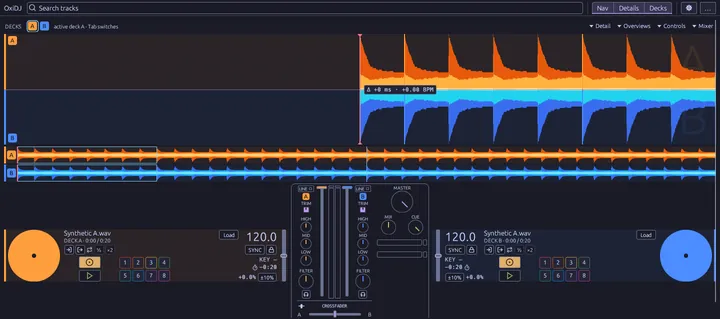
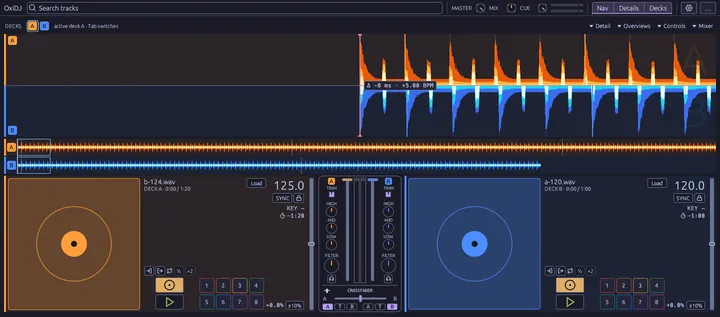
feat(site): refresh deck screenshots and gallery audit
Gate: cargo xtask ci exit 0 (layers=ok fmt=ok clippy=ok check=ok); site typecheck, lint, format, 79 tests and build exit 0; browser audit 9 route/width checks exit 0.

diff --git a/site/src/data/roadmap.ts b/site/src/data/roadmap.ts
@@ -289,7 +289,7 @@ export const screenshots = {
   deckMixerV2: {
     id: 'deck-mixer-v2',
     width: 1440,
-    height: 273,
+    height: 285,
     halfWidth: 720,
     alt: 'Current deck row with two synthetic tracks, hot-cue pads and the compact mixer in the centre.',
     caption: 'Decks and compact mixer in layout B. Synthetic tracks; provisional application.',
@@ -297,7 +297,7 @@ export const screenshots = {
   layoutB: {
     id: 'layout-b',
     width: 1440,
-    height: 638,
+    height: 635,
     halfWidth: 720,
     alt: 'Arrangement B: waveform above two decks with a mixer between them.',
     caption: 'B, default: waveforms above the decks and central mixer.',
@@ -305,7 +305,7 @@ export const screenshots = {
   layoutA: {
     id: 'layout-a',
     width: 1440,
-    height: 638,
+    height: 628,
     halfWidth: 720,
     alt: 'Arrangement A: decks and central mixer above the waveform.',
     caption: 'A: decks and mixer above the waveforms.',
@@ -313,7 +313,7 @@ export const screenshots = {
   layoutC: {
     id: 'layout-c',
     width: 1440,
-    height: 638,
+    height: 628,
     halfWidth: 720,
     alt: 'Arrangement C: waveform on top, decks below with the mixer on the right.',
     caption: 'C: waveforms above; mixer docked right.',
@@ -321,7 +321,7 @@ export const screenshots = {
   layoutD: {
     id: 'layout-d',
     width: 1440,
-    height: 475,
+    height: 473,
     halfWidth: 720,
     alt: 'Arrangement D: mixer beside waveforms with decks below.',
     caption: 'D: mixer beside the waveforms; decks below.',
@@ -329,7 +329,7 @@ export const screenshots = {
   overview: {
     id: 'app-overview',
     width: 1440,
-    height: 638,
+    height: 635,
     halfWidth: 720,
     alt: 'OxiDJ deck layout B with an orange and blue merged waveform, separate overviews, two synthetic tracks on the decks, and a compact mixer between them.',
     caption: 'Deck layout B in the provisional application, with synthetic tracks. Click to zoom.',

diff --git a/site/src/__tests__/siteMarkup.test.ts b/site/src/__tests__/siteMarkup.test.ts
@@ -43,11 +43,11 @@ describe('screenshots', () => {
   it('renders a sized, described figure whose link opens the full-resolution image', () => {
     const html = renderShot(screenshots.overview, '92vw', true);
     expect(html).toContain('href="./images/app-overview.webp" data-lightbox');
-    expect(html).toContain('data-width="1440" data-height="638"');
+    expect(html).toContain('data-width="1440" data-height="635"');
     expect(html).toContain(
       'srcset="./images/app-overview-720.webp 720w, ./images/app-overview.webp 1440w"',
     );
-    expect(html).toContain('width="1440" height="638"');
+    expect(html).toContain('width="1440" height="635"');
     expect(html).toContain('fetchpriority="high"');
     expect(html).not.toContain('loading="lazy"');
     expect(html).toContain(`alt="${screenshots.overview.alt}"`);
@@ -57,6 +57,21 @@ describe('screenshots', () => {
     const html = renderShot(screenshots.waveformGrid, '359px');
     expect(html).toContain('loading="lazy"');
     expect(html).not.toContain('srcset');
+  });
+  it('renders each refreshed arrangement with its correct lightbox and responsive dimensions', () => {
+    for (const [shot, height] of [
+      [screenshots.layoutA, 628],
+      [screenshots.layoutB, 635],
+      [screenshots.layoutC, 628],
+      [screenshots.layoutD, 473],
+    ] as const) {
+      const html = renderShot(shot, '92vw');
+      expect(html).toContain(`href="./images/${shot.id}.webp" data-lightbox`);
+      expect(html).toContain(`data-width="1440" data-height="${height}"`);
+      expect(html).toContain(`width="1440" height="${height}"`);
+      expect(html).toContain(`./images/${shot.id}-720.webp 720w`);
+      expect(html).toContain(`alt="${shot.alt}"`);
+    }
   });
   it('pins the imported-playlist capture dimensions, accessible description and lightbox path', () => {
     const html = renderShot(screenshots.importedPlaylists, '240px');

diff --git a/site/index.html b/site/index.html
@@ -176,8 +176,7 @@
         <details class="layout-showcase">
           <summary>Explore the four deck arrangements</summary>
           <p>
-            Selectable in Settings. These are synthetic captures of the provisional application;
-            some overview strips extend below the visible area.
+            Selectable in Settings. These are synthetic captures of the provisional application.
           </p>
           <div class="layout-grid">
             <!-- site:layoutB -->

diff --git a/site/scripts/crop-screenshots.py b/site/scripts/crop-screenshots.py
@@ -35,7 +35,6 @@ BEFORE = BANDS / "01-before-v16-monochrome.png"
 PLAYING = BANDS / "03-after-both-playing-played-dimmed.png"
 SYNCED = BANDS / "04-after-sync-keylock-both-playing.png"
 PLAYLISTS = MILESTONES / "v18-imported-playlists/01-imported-playlist-load-controls.png"
-LAYOUT_V2 = MILESTONES / "v19-deck-layout-v2/app-overviews-shared-scale.png"
 LAYOUTS = MILESTONES / "v19-deck-layout-v2"
 
 # Waveform section of the details panel: below the details/waveform hairline
@@ -49,14 +48,15 @@ BANDS_AREA = (0, 130, 1440, 552)
 
 # name: (source, (left, top, right, bottom)) in source pixels.
 CROPS = {
-    # Layout B, stopping before the details panel and its local scratch path.
-    "app-overview": (LAYOUT_V2, (0, 65, 1440, 703)),
-    "deck-mixer-v2": (LAYOUT_V2, (0, 430, 1440, 703)),
+    # Latest layout B, stopping before the table and Details panel.
+    "app-overview": (LAYOUTS / "app-deck-row-fit-1440x790.png", (0, 0, 1440, 635)),
+    "deck-mixer-v2": (LAYOUTS / "app-deck-row-fit-1440x790.png", (0, 350, 1440, 635)),
     # Synthetic v19 application screenshots, cropped above the Details path.
-    "layout-a": (LAYOUTS / "app-layout-a.png", (0, 65, 1440, 703)),
-    "layout-b": (LAYOUTS / "app-layout-b.png", (0, 65, 1440, 703)),
-    "layout-c": (LAYOUTS / "app-layout-c.png", (0, 65, 1440, 703)),
-    "layout-d": (LAYOUTS / "app-layout-d.png", (0, 65, 1440, 540)),
+    "layout-a": (LAYOUTS / "pages-layout-a-synthetic.png", (0, 0, 1440, 628)),
+    # Newer 1440x790 synthetic capture: complete deck row, no table or Details.
+    "layout-b": (LAYOUTS / "app-deck-row-fit-1440x790.png", (0, 0, 1440, 635)),
+    "layout-c": (LAYOUTS / "pages-layout-c-synthetic.png", (0, 0, 1440, 628)),
+    "layout-d": (LAYOUTS / "pages-layout-d-synthetic.png", (0, 0, 1440, 473)),
     # DECKS row and the merged 3-band detail waveform, both decks playing.
     "decks-merged": (PLAYING, (0, 100, 1440, 356)),
     # Seam readout, both tempo faders and KEY/SYNC lit on deck B.

diff --git a/site/scripts/verify-browser.py b/site/scripts/verify-browser.py
@@ -267,6 +267,11 @@ def main():
                     page.evaluate("document.fonts.ready")
                     tag = f"{name}-{width}"
                     if motion == "reduce":
+                        # The screenshot galleries live in closed disclosures: open them
+                        # through their summaries before checking images and lightboxes.
+                        if name == "index":
+                            for summary_control in page.locator("details.layout-showcase > summary").all():
+                                summary_control.click()
                         # Load lazy images and let scroll reveals settle before measuring.
                         page.evaluate("async () => { for (let y = 0; y < document.body.scrollHeight; y += 600) { window.scrollTo(0, y); await new Promise(r => setTimeout(r, 60)); } window.scrollTo(0, 0); }")
                         page.wait_for_load_state("networkidle")

diff --git a/site/public/images/README.md b/site/public/images/README.md
@@ -2,25 +2,31 @@
 
 ## Provisional v19 layout showcase
 
-`deck-mixer-v2.webp` is cropped from `app-overviews-shared-scale.png` at
-`(0, 430, 1440, 703)`; the matching `-720` file is its half-width copy. It
-shows the deck row and mixer from a synthetic catalog, above the Details panel.
+`deck-mixer-v2.webp` is cropped from `app-deck-row-fit-1440x790.png` at
+`(0, 350, 1440, 635)`; the matching `-720` file is its half-width copy. It
+shows the complete deck row and mixer from a synthetic catalog, above the Details panel.
 
-`layout-{a,b,c,d}.webp` are regenerated from the corresponding synthetic
-`docs/milestones/v19-deck-layout-v2/app-layout-{a,b,c,d}.png` captures. Crops
-A, B and C use `(0, 65, 1440, 703)`; D uses `(0, 65, 1440, 540)`. Their
+`layout-{a,c,d}.webp` are regenerated from the corresponding already-cropped
+`docs/milestones/v19-deck-layout-v2/pages-layout-{a,c,d}-synthetic.png` captures.
+The fresh Bot Screen captures used release build `fd4f99d` and a synthetic test
+catalog. A and C were cropped to `(0, 72, 1440, 700)` on the full screen; D to
+`(0, 72, 1440, 545)`, excluding the table and Details panel before saving.
+`layout-b.webp` uses the newer synthetic `app-deck-row-fit-1440x790.png`
+at `(0, 0, 1440, 635)`, retaining the complete deck row while excluding the
+table and Details panel. Their
 `-720.webp` variants are half-width responsive copies. The source Details panel
 contains local paths and IDs: it is excluded from these inspected crops. The
-source view clips the lower edge of some overviews; the showcase says so.
-These provisional assets await a fresh capture and final privacy review.
+resulting showcase crops show the deck controls and overviews. The application
+is provisional; a final privacy review remains open.
 
-All screenshots are crops of inspected Bot Screen captures (X11, 1440x900,
-provisional `prototypes/oxidj-library-ui`, Tokyo Night). Product-state examples use
-synthetic audio and catalog data except for the single owner-library row documented
-below, which is metadata-only and was not loaded or played. The v18 playlist screen
-uses only synthetic repository test data. No paths, IDs, hashes, or other owner-library
-records are visible in the published crop. Pixels were inspected before publication
-(2026-11-07).
+Screenshots are crops of inspected X11 Bot Screen captures of the provisional
+`prototypes/oxidj-library-ui` in Tokyo Night. The newer A, C and D site crops
+were taken from a 1440x900 desktop on 2026-11-11; the newer B source is 1440x790.
+The historical crops below were inspected on 2026-11-07. Product-state examples
+use synthetic audio and catalog data except for the single owner-library row
+documented below, which is metadata-only and was not loaded or played. The v18
+playlist screen uses only synthetic repository test data. No paths, IDs, hashes,
+or other owner-library records are visible in the published owner-record crop.
 
 | Source capture (under `docs/milestones/`)                       | Build                              | Catalog                                                                                                                   |
 | --------------------------------------------------------------- | ---------------------------------- | ------------------------------------------------------------------------------------------------------------------------- |
@@ -46,22 +52,22 @@ and a privacy inspection, not the synthetic crop script. Full-width synthetic
 crops also get a `-720` half-width lossy q80 copy for 1x screens (`srcset`);
 every full-size file is lossless.
 
-| File                                   | Source and crop (x0, y0, x1, y1)                        | Notes                                                                                    |
-| -------------------------------------- | ------------------------------------------------------- | ---------------------------------------------------------------------------------------- |
-| `app-overview.webp`                    | v19 `app-overviews-shared-scale.png` (0, 65, 1440, 703) | Hero: reviewed layout B with synthetic audio; excludes the details panel and local path. |
-| `decks-merged.webp`                    | v17 `03-after-both...` (0, 100, 1440, 356)              | Merged 3-band detail waveform, both decks playing.                                       |
-| `bands-before.webp`                    | v17 `01-before...` (0, 130, 1440, 552)                  | v16 deck area: near-monochrome detail, flat overviews.                                   |
-| `bands-after.webp`                     | v17 `03-after-both...` (0, 130, 1440, 552)              | Same area after W12: three bands in detail and overviews.                                |
-| `decks-synced.webp`                    | v17 `04-after-sync...` (440, 128, 1000, 384)            | Seam readout 0 ms / +0.00 BPM, KEY and SYNC lit on B.                                    |
-| `sync-refused.webp`                    | v15 `04-sync-refused...` (720, 356, 1440, 412)          | Deck B strip: `SYNC: deck B has no beat grid`.                                           |
-| `decks-mixer.webp`                     | v17 `04-after-sync...` (0, 356, 1440, 476)              | Control strip and the mixer row with live meters.                                        |
-| `grid-fallback.webp`                   | v14 `04-grid-fallback...` (0, 100, 1440, 492)           | mm:ss time grid without a beat grid or waveform (pre-W12 colours).                       |
-| `decks-collapsed.webp`                 | v14 `05-collapsed...` (0, 100, 1440, 400)               | Detail collapsed; strip, overviews, table rows (pre-W12 colours).                        |
-| `waveform-beat-grid.webp`              | v13 `01-ventoy-style...` (1081, 362, 1440, 800)         | Details waveform panel, computed grid 127.95 BPM.                                        |
-| `waveform-click-grid.webp`             | v13 `02-click-track...` (1081, 362, 1440, 800)          | Details waveform panel, computed grid 120.00 BPM.                                        |
-| `imported-playlist-load-controls.webp` | v18 imported-playlist panel (0, 0, 175, 252)            | Selected nested member and explicit Load A/B; native crop, no half-size copy.            |
-| `senci-owner-library-record.webp`      | Owner-library Bot Screen row crop (248, 30, 1086, 104)  | One imported-library row only; metadata, not loaded or played; no ID/path/other records. |
-| `social.png`                           | composed from `app-overview`                            | 1200x630 Open Graph card set in Epilogue.                                                |
+| File                                   | Source and crop (x0, y0, x1, y1)                       | Notes                                                                                    |
+| -------------------------------------- | ------------------------------------------------------ | ---------------------------------------------------------------------------------------- |
+| `app-overview.webp`                    | v19 `app-deck-row-fit-1440x790.png` (0, 0, 1440, 635)  | Hero: synthetic layout B; excludes the table and Details panel.                          |
+| `decks-merged.webp`                    | v17 `03-after-both...` (0, 100, 1440, 356)             | Merged 3-band detail waveform, both decks playing.                                       |
+| `bands-before.webp`                    | v17 `01-before...` (0, 130, 1440, 552)                 | v16 deck area: near-monochrome detail, flat overviews.                                   |
+| `bands-after.webp`                     | v17 `03-after-both...` (0, 130, 1440, 552)             | Same area after W12: three bands in detail and overviews.                                |
+| `decks-synced.webp`                    | v17 `04-after-sync...` (440, 128, 1000, 384)           | Seam readout 0 ms / +0.00 BPM, KEY and SYNC lit on B.                                    |
+| `sync-refused.webp`                    | v15 `04-sync-refused...` (720, 356, 1440, 412)         | Deck B strip: `SYNC: deck B has no beat grid`.                                           |
+| `decks-mixer.webp`                     | v17 `04-after-sync...` (0, 356, 1440, 476)             | Control strip and the mixer row with live meters.                                        |
+| `grid-fallback.webp`                   | v14 `04-grid-fallback...` (0, 100, 1440, 492)          | mm:ss time grid without a beat grid or waveform (pre-W12 colours).                       |
+| `decks-collapsed.webp`                 | v14 `05-collapsed...` (0, 100, 1440, 400)              | Detail collapsed; strip, overviews, table rows (pre-W12 colours).                        |
+| `waveform-beat-grid.webp`              | v13 `01-ventoy-style...` (1081, 362, 1440, 800)        | Details waveform panel, computed grid 127.95 BPM.                                        |
+| `waveform-click-grid.webp`             | v13 `02-click-track...` (1081, 362, 1440, 800)         | Details waveform panel, computed grid 120.00 BPM.                                        |
+| `imported-playlist-load-controls.webp` | v18 imported-playlist panel (0, 0, 175, 252)           | Selected nested member and explicit Load A/B; native crop, no half-size copy.            |
+| `senci-owner-library-record.webp`      | Owner-library Bot Screen row crop (248, 30, 1086, 104) | One imported-library row only; metadata, not loaded or played; no ID/path/other records. |
+| `social.png`                           | composed from `app-overview`                           | 1200x630 Open Graph card set in Epilogue.                                                |
 
 Every capture contains the Bot Screen pointer and its name badge (over the track table,
 or over the table header in v17 `01`–`03`); every crop excludes them. The v15, v16 and

diff --git a/site/README.md b/site/README.md
@@ -47,12 +47,13 @@ uv run --no-project --with playwright python scripts/verify-browser.py http://12
 ```
 
 `verify-browser.py` drives the system Chromium (`CHROME_PATH`, default
-`/usr/sbin/chromium`) at 390 and 1440 px on every route, with and without reduced
-motion: console and request errors, horizontal overflow plus painted-text and
-navigation bounds (so `overflow-x: clip` cannot hide clipped copy), WCAG contrast of visible text
-on its blended background, 44 px mobile targets, layout shift, transferred bytes and an
-end-to-end lightbox run. The 390 px home audit includes an injected wide-copy/shifted-nav
-negative control. Screenshots land in the output directory (ignored).
+`/usr/sbin/chromium`) at 390 and 1440 px on every route. With reduced motion, it
+checks console and request errors, horizontal overflow, painted-text and navigation
+bounds (so `overflow-x: clip` cannot hide clipped copy), visible-text contrast,
+44 px mobile targets, transferred bytes and an end-to-end lightbox run. With normal
+motion it checks errors and layout shift. The 390 px home audit includes an
+injected wide-copy/shifted-nav negative control. Screenshots land in the output
+directory (ignored).
 
 ## Publication
 
